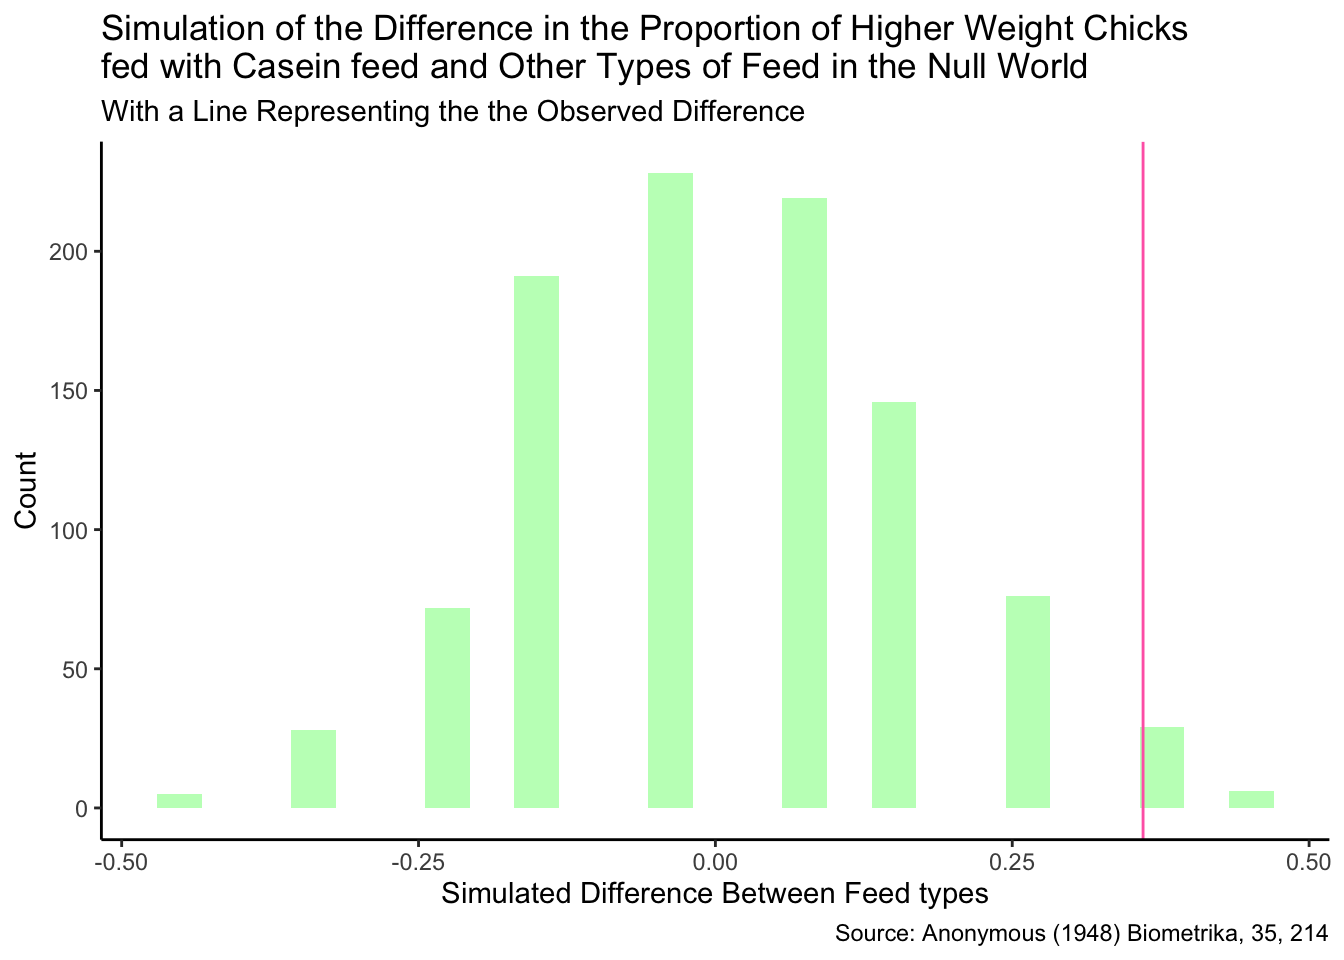
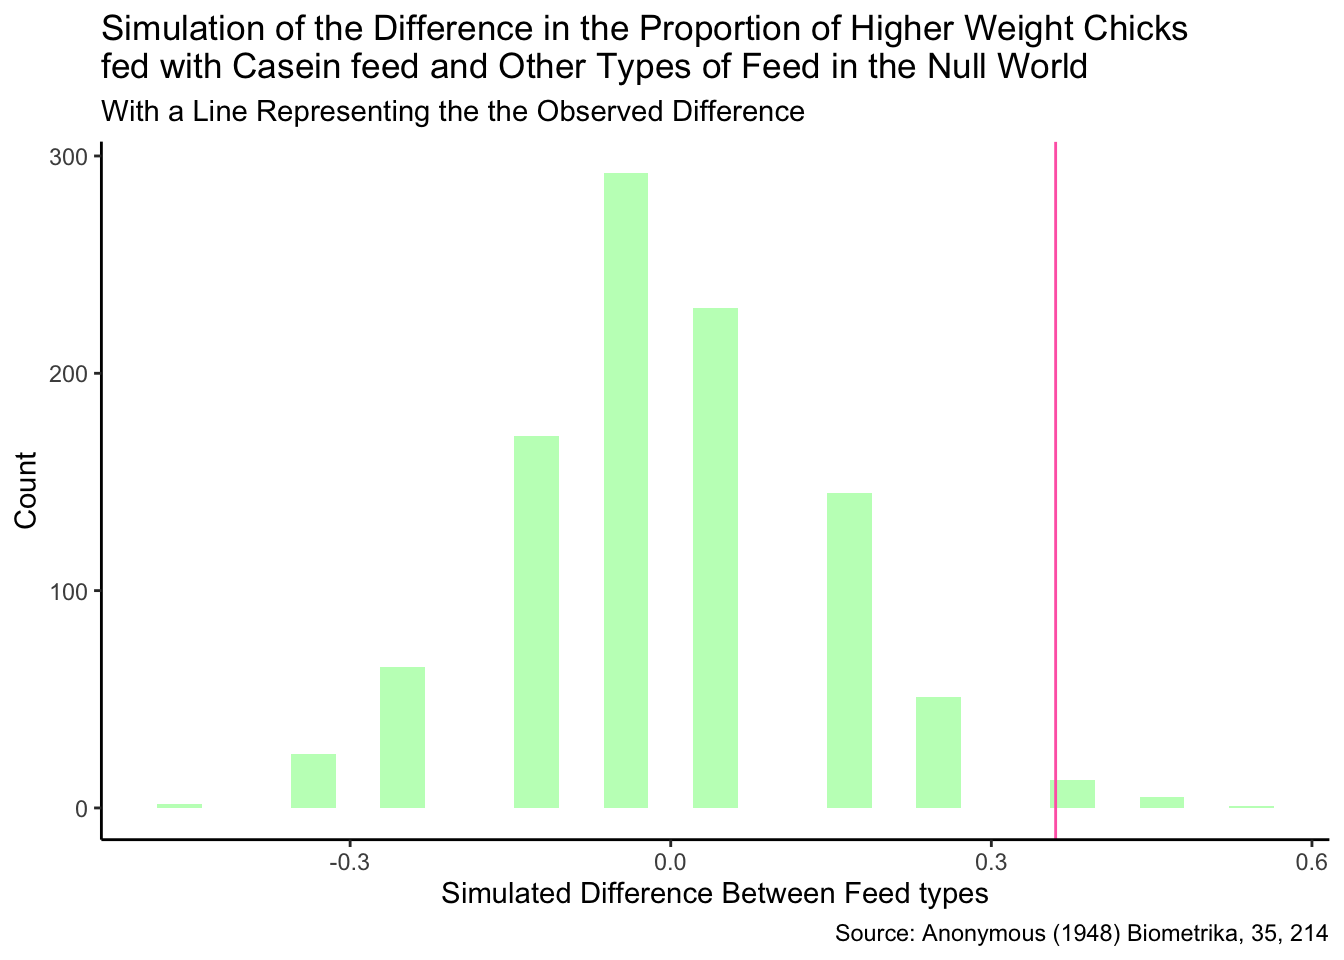
comi

diff --git a/docs/miniproject2.html b/docs/miniproject2.html
@@ -324,7 +324,7 @@ pre > code.sourceCode > span > a:first-child::before { text-decoration: underlin
 <div class="sourceCode cell-code" id="cb15"><pre class="sourceCode r code-with-copy"><code class="sourceCode r"><span id="cb15-1"><a href="#cb15-1" aria-hidden="true" tabindex="-1"></a>p_value <span class="ot">&lt;-</span> <span class="fu">sum</span>(simulated_diff_cas<span class="sc">&gt;=</span>observed_diff_cas)<span class="sc">/</span><span class="dv">1000</span></span>
 <span id="cb15-2"><a href="#cb15-2" aria-hidden="true" tabindex="-1"></a>p_value</span></code><button title="Copy to Clipboard" class="code-copy-button"><i class="bi"></i></button></pre></div>
 <div class="cell-output cell-output-stdout">
-<pre><code>[1] 0.035</code></pre>
+<pre><code>[1] 0.019</code></pre>
 </div>
 </div>
 <p>We can also calculate the p-value which is shown above. The p-value represents the chance that we would get an observed difference that is equal to or above the difference that we got. Because our p-value is less than 0.05, we can reject the null hypothesis that casein feed has no effect on chick weights compared to other types of feed.</p>
